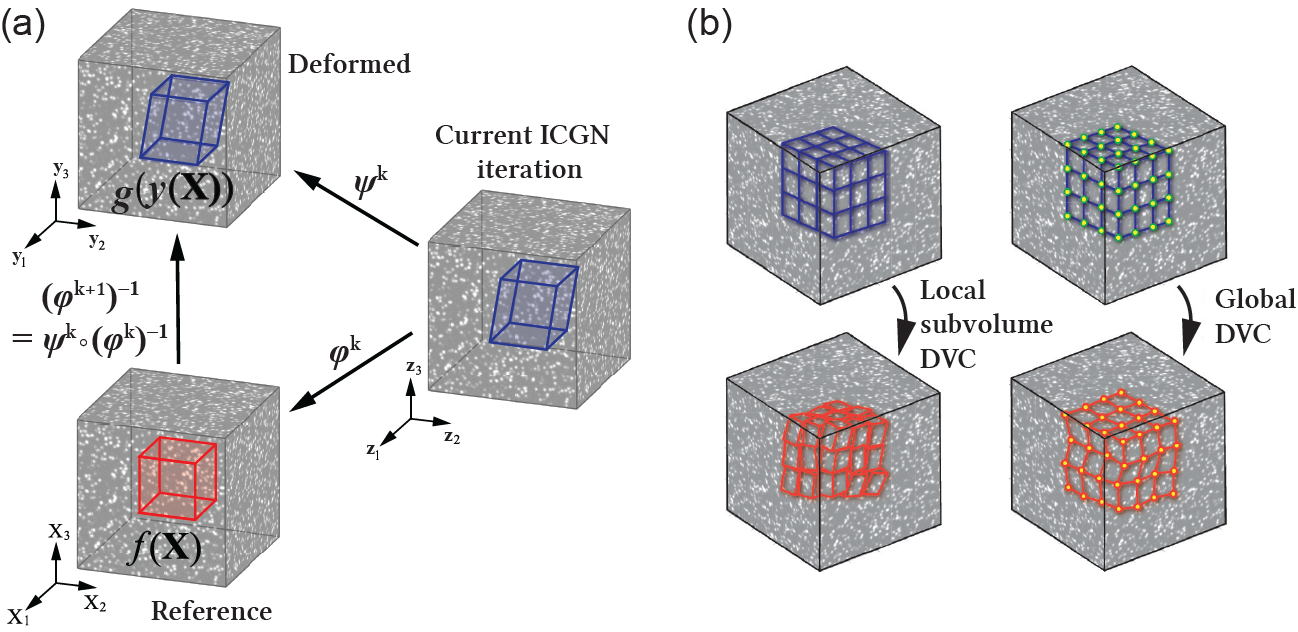
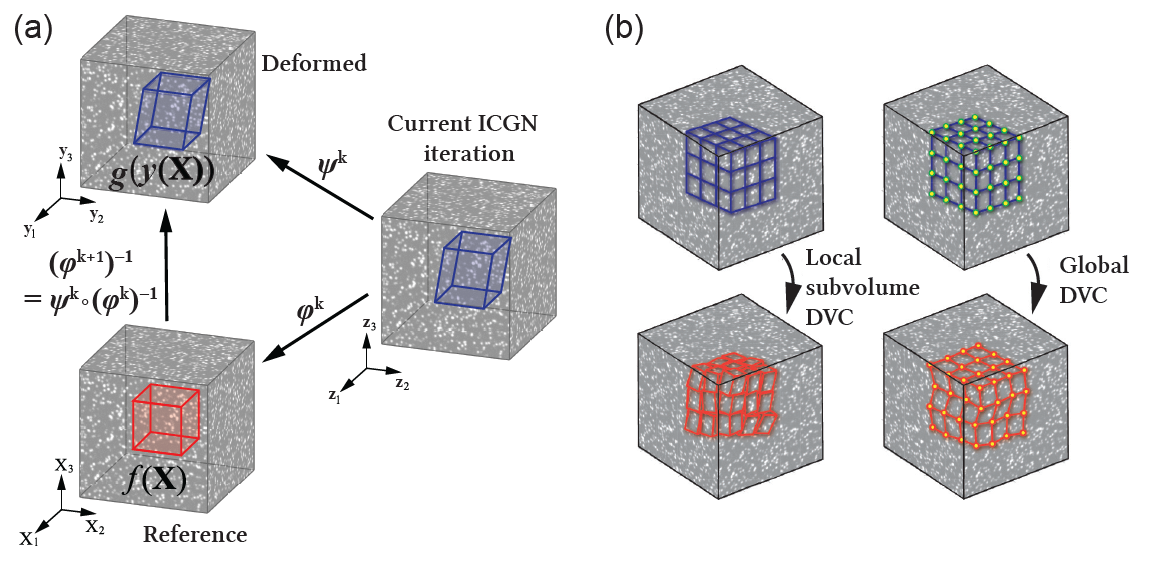
update introduction

diff --git a/docs/source/pages/introduction.rst b/docs/source/pages/introduction.rst
@@ -1,8 +1,11 @@
 .. _introduction:
 
-=====
+==================
 Introduction
-=====
+==================
+
+Overview
+-----------------------
 
 Digital volume correlation (DVC), the volumetric extension of the popular digital image correlation
 (DIC) technique, is a powerful experimental tool for measuring 3D volumetric full-field displacements
@@ -21,25 +24,36 @@ our recent work on the augmented Lagrangian digital image correlation (2D-ALDIC)
 method, please see :ref:`Fig. 1` and our paper `[1]`_ (full text can also be accessed here `[5]`_).
 
 
-Some advantages of our ALDVC algorithm are highlighted below:
+Advantages of the ALDVC algorithm
+-----------------------
 
-    * i) It is a *fast* algorithm using *distributed parallel* computing for a global nonconvex optimization.
-    * ii) *Global kinematic compatibility* is added as a global constraint in augmented Lagrangian form, and solved using the *Alternating Direction Method of Multipliers (ADMM)* scheme.
-    * iii) Both displacement fields and affine deformation gradients are computed at the same time.
-    * iv) Since global compatibility is enforced the user does not need to choose a specific displacement smoothing filters.
-    * v) It works well with compressed images and can include *adaptive mesh* refinement `[6]`_.
-    * vi) It can solve an image sequence with multiple time frames and handle large finite deformations.
+* [1] It is a *fast* algorithm using *distributed parallel* computing for a global nonconvex optimization.
+* [2] *Global kinematic compatibility* is added as a global constraint in augmented Lagrangian form, and solved using the *Alternating Direction Method of Multipliers (ADMM)* scheme.
+* [3] Both displacement fields and affine deformation gradients are computed at the same time.
+* [4] Since global compatibility is enforced the user does not need to choose a specific displacement smoothing filters.
+* [5] It works well with compressed images and can include *adaptive mesh* refinement `[6]`_.
+* [6] It can solve an image sequence with multiple time frames and handle large finite deformations.
 
 
-A schematic showing the difference between ALDVC and other conventional DVC methods are summarized in :numref:`target to image`.
+A schematic showing the difference between ALDVC and other conventional DVC methods is summarized in :numref:`img_dvc_comp`.
 
-.. _target to image:
+
+
+.. _img_dvc_comp:
 
 .. figure:: ./img/fig_dvc_illustraion_figs1-3.png
-   :alt: Overview of different DVC methods
+   :alt: alt1
    :align: center
+   :width: 90 %
 
-    (a) Schematic showing a volumetric DVC reference image f(X), with a general speckle pattern, deforming into the deformed image g(y(X)) under some mapping y and the change of variables involved within the IC-GN iteration in the local subvolume DVC method. X and y coordinates are in the reference and deformed images, respectively. z coordinates are in current IC-GN iteration. (b) A schematic comparison between the local DVC method (left), where all the subvolumes are analyzed independently, and the global DVC method (right), where a global basis set is used to represent the full-field deformation.
+   **Comparison between different DVC methods.** (a) Schematic showing a volumetric DVC reference image f(**X**), with a general speckle pattern, deforming into the deformed image g(**y** (**X**) ) under some mapping **y** and the change of variables involved within the IC-GN iteration in the local subvolume DVC method. **X** and **y** coordinates are in the reference and deformed images, respectively. **z** coordinates are in current IC-GN iteration. (b) A schematic comparison between the local DVC method (left), where all the subvolumes are analyzed independently, and the global DVC method (right), where a global basis set is used to represent the full-field deformation.
+
+
+
+
+
+
+
 
 
 

diff --git a/docs/source/pages/try_citation.rst b/docs/source/pages/try_citation.rst
@@ -65,26 +65,27 @@ An easy way is just to use the final link of the page/section.
 This works, but it has :ref:`some disadvantages <target to paragraph>`:
 
 
-.. _target to image:
+.. _target to image1:
 
 .. figure:: /img/logo.png
    :alt: Logo
    :align: center
    :width: 240px
 
-   Link me!
+   Link me image1!
 
-.. _target to image:
+.. _target to image2:
 
-.. figure:: /img/logo.png
+.. figure:: /img/logo2.png
    :alt: Logo
    :align: center
    :width: 240px
 
-    Link me 2
+   Link me image2
 
 
-:numref:`target to image`
+:numref:`target to image1`
+
 
 
 :numref:`target to image2`
@@ -98,7 +99,7 @@ This works, but it has :ref:`some disadvantages <target to paragraph>`:
    :align: center
    :width: 240px
 
-   Link me!
+   Link me table!
 
 
 

diff --git a/docs/source/index.rst b/docs/source/index.rst
@@ -31,7 +31,6 @@ Welcome to the documentation for the Augmented Lagrangian Digital Volume Correla
    pages/installation
    pages/first_case
    pages/faq
-   pages/references
    pages/try_citation
 
 

diff --git a/docs/source/pages/installation.rst b/docs/source/pages/installation.rst
@@ -1,11 +1,11 @@
 .. _installation:
 
-=====
+==================
 Getting started
-=====
+==================
 
 Installation
----------
+----------------
 
 To install ALDVC on your machine:
 

diff --git a/docs/source/pages/first_case.rst b/docs/source/pages/first_case.rst
@@ -1,5 +1,5 @@
 .. _your_first_aldvc_case:
 
-================
+==================
 Your first ALDVC case
-================
+==================

diff --git a/docs/source/pages/references.rst b/docs/source/pages/references.rst
@@ -1,8 +1,9 @@
-.. _references:
+..
+    .. _references:
 
-=====
+==================
 References
-=====
+==================
 
 .. _[1]:
 

diff --git a/docs/source/pages/setup_ALDVC_code.rst b/docs/source/pages/setup_ALDVC_code.rst
@@ -1,3 +1,3 @@
-================
+==================
 Set up ALDVC code on your computer
-================
+==================

diff --git a/docs/source/pages/faq.rst b/docs/source/pages/faq.rst
@@ -1,5 +1,5 @@
 .. _faq:
 
-=====
+==================
 FAQ
-=====
+==================
